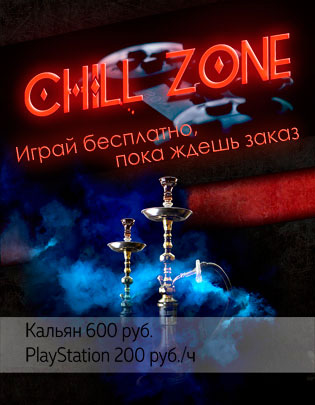
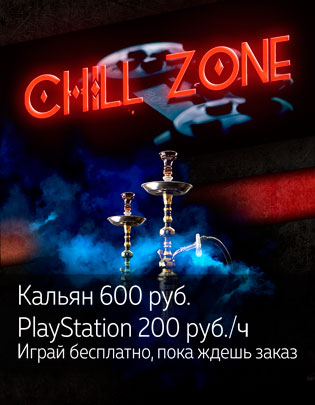
Заменил изображения баннеров на новые

diff --git a/wp-content/themes/dishes-sf-child/style.css b/wp-content/themes/dishes-sf-child/style.css
@@ -1315,10 +1315,10 @@ article .entry-taxonomy {
         /*height: 150px;*/
     }
     /*Заменяем картинку у banner2*/
-    .top-section .banner-wrapper .banner2 img.desktop {
+    .top-section .banner-wrapper .banner1 img.desktop {
         display: none;
     }
-    .top-section .banner-wrapper .banner2 img.mobile {
+    .top-section .banner-wrapper .banner1 img.mobile {
         display: block;
     }
 

diff --git a/wp-content/themes/dishes-sf-child/homepage/homepage.css b/wp-content/themes/dishes-sf-child/homepage/homepage.css
@@ -61,10 +61,9 @@
 .top-section .banner-wrapper img {
     width: 100%;
     height: 100%;
-    max-width: 315px;
     margin: 0 auto;
 }
-.top-section .banner-wrapper .banner2 img.mobile {
+.top-section .banner-wrapper .banner1 img.mobile {
     display: none;
 }
 

diff --git a/wp-content/themes/dishes-sf-child/homepage/top-section.php b/wp-content/themes/dishes-sf-child/homepage/top-section.php
@@ -17,12 +17,12 @@
     </div>
     <div class="banner-wrapper">
         <div class="banner1">
-            <img src="<?php echo get_stylesheet_directory_uri() . '/homepage/nivoslider/img/' ?>banner_kalyan_ps_315_405.jpg" alt="" />
+            <img class="desktop" src="<?php echo get_stylesheet_directory_uri() . '/homepage/nivoslider/img/' ?>banner_kalyan_ps_315_405.jpg" alt="" />
+            <img class="mobile" src="<?php echo get_stylesheet_directory_uri() . '/homepage/nivoslider/img/' ?>banner_kalyan_ps_horiz_500_219.jpg" alt="" />
         </div>
         <div class="banner2">
             <a href="tel:+79241005522">
-                <img class="desktop" src="<?php echo get_stylesheet_directory_uri() . '/homepage/nivoslider/img/' ?>banner_mini_orderrolls_315_138.jpg" alt="" />
-                <img class="mobile" src="<?php echo get_stylesheet_directory_uri() . '/homepage/nivoslider/img/' ?>banner_mini_orderrolls_315_405.jpg" alt="" />
+                <img src="<?php echo get_stylesheet_directory_uri() . '/homepage/nivoslider/img/' ?>banner_mini_orderrolls_500_219.jpg" alt="" />
             </a>
         </div>
     </div>
